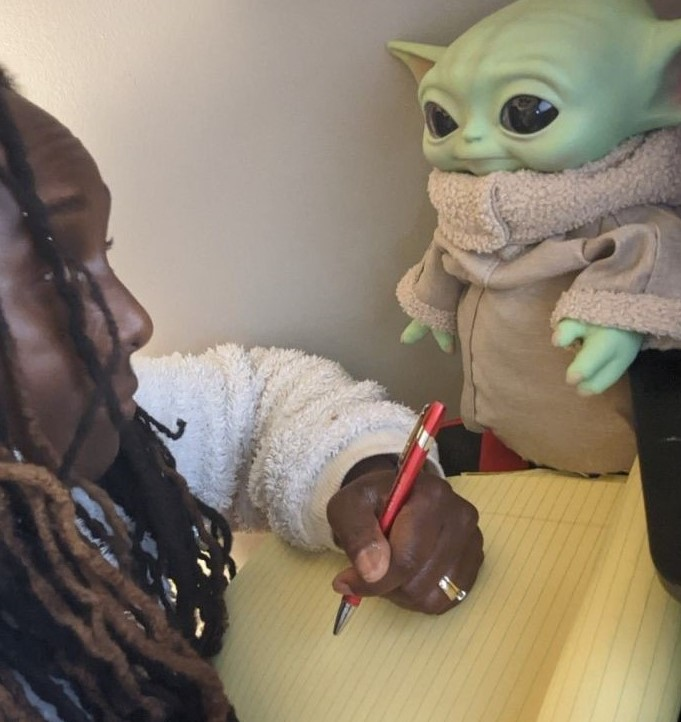
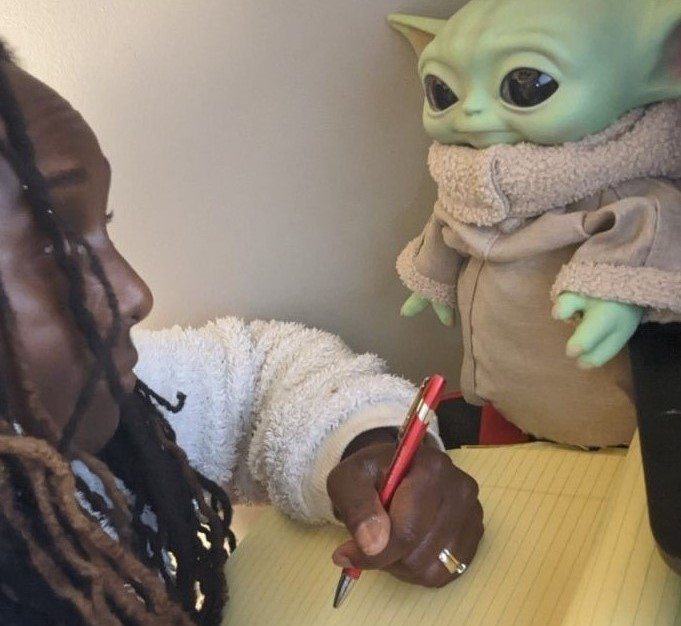
adjusting the image and finishing the home component

diff --git a/src/app/home/home.component.html b/src/app/home/home.component.html
@@ -28,10 +28,27 @@
 
     <!--featured project-->
     <div class="col-md shadow border m-2">
-      <h2 class="title2">Featured Project</h2>
-      <h3 class="text-center p-2">{{featuredProject.name}}</h3>
+      <h2 class="title2">Current Project!</h2>
+      <h3 class="text-center p-3">{{ featuredProject.name }}</h3>
+      <carousel>
+        <div *ngFor="for; let picture; of: featuredProject.pictures">
+          <slide
+            ><img
+              class="studying"
+              src="{{ picture }}"
+              alt="studying"
+              style="display: block; width: 100%"
+          /></slide>
+        </div>
+      </carousel>
+      <p class="mt-3">{{featuredProject.summary}} Visit the Portfolio section to learn more!</p>
+      <p></p>
     </div>
   </div>
+
+
+
+
   <div class="row">
     <div class="col-md shadow border m-1">
       <h2 class="text-center">Out of the office fun!</h2>

diff --git a/src/app/_services/projects.service.ts b/src/app/_services/projects.service.ts
@@ -12,7 +12,7 @@ export class ProjectsService {
     {
       id: 0,
       name: 'JavaScript Practice Exercises',
-      summary: 'Leetcode practice problems :) ',
+      summary: 'Learning with Leetcode  :)',
       description:
         'This is a compilation of easy and medium JavaScript practice exercises for coding interviews.  Data structures and algorithms are also great for building logic and reasoning skills.',
       projectLink: 'https://github.com/amerigirl/JavaScript-Practice-Exercises',
